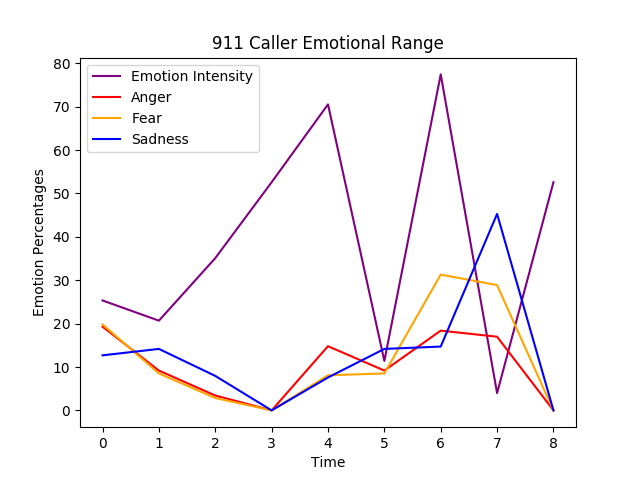
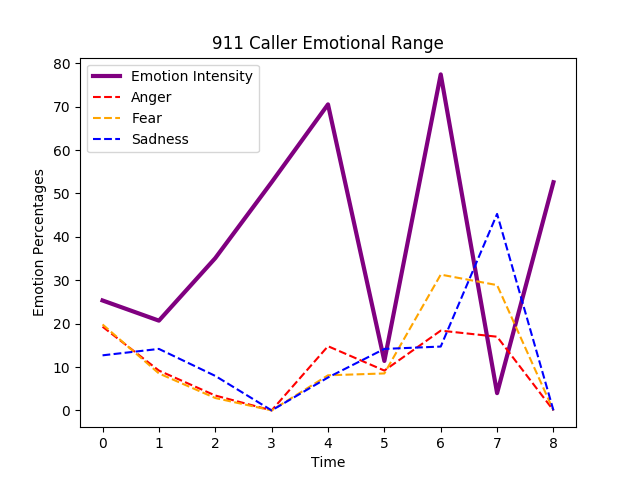
working NLU analysis, updated output format, more detailed sentiment analysis graph

diff --git a/model/tonalAnalysis.py b/model/tonalAnalysis.py
@@ -4,6 +4,8 @@ import transcriptManipulation
 import matplotlib.pyplot as plt
 import numpy as np
 from scipy.interpolate import spline
+import warnings
+warnings.filterwarnings("ignore")
 
 toneAnalyzer = ToneAnalyzerV3(
   version='2016-05-19',
@@ -12,10 +14,14 @@ toneAnalyzer = ToneAnalyzerV3(
 )
 
 with open('transcription.txt', 'r') as myfile:
-    data = myfile.read().replace('\u2019', '').replace('\u2026', '')
+    data = myfile.read()
 
 caller_text = transcriptManipulation.stripCallerText(data)
 toneJson = json.dumps(toneAnalyzer.tone(text=caller_text), indent=2)
+
+with open("EmotionJson.txt", 'w') as json_file:
+    json.dump(toneJson, json_file)
+
 
 arrayData = json.loads(toneJson)
 
@@ -23,14 +29,28 @@ emotional_range_scores = np.array([sentence.get('tone_categories')[2].get('tones
 anger_scores = np.array([sentence.get('tone_categories')[0].get('tones')[0].get('score')  for sentence in arrayData.get('sentences_tone') if sentence.get('tone_categories') != []]) * 100
 fear_scores = np.array([sentence.get('tone_categories')[0].get('tones')[2].get('score')  for sentence in arrayData.get('sentences_tone') if sentence.get('tone_categories') != []]) * 100
 sad_scores = np.array([sentence.get('tone_categories')[0].get('tones')[4].get('score')  for sentence in arrayData.get('sentences_tone') if sentence.get('tone_categories') != []]) * 100
+
+emotional_output = "Emotional Range: {" + str(np.percentile(emotional_range_scores, 25)) + ", " + str(np.percentile(emotional_range_scores, 75)) + "}\n" \
+					+ "Anger: " + str(max(anger_scores)) + "\n" \
+			  		+ "Fear: " + str(max(fear_scores)) + "\n" \
+			    	+ "Sadness: " + str(max(sad_scores))+ "\n\n"
+
+print("-------------------------")
+print("Emotional Analysis Output")
+print("-------------------------\n")
+print(emotional_output)
+
+
+print("Displaying Sentiment Analysis Arcs...\n")
+
 s = np.arange(len(emotional_range_scores))
 
 plt.gca().set_color_cycle(['purple', 'red', 'orange', 'blue'])
 
-plt.plot(s, emotional_range_scores)
-plt.plot(s, anger_scores)
-plt.plot(s, fear_scores)
-plt.plot(s, sad_scores)
+plt.plot(s, emotional_range_scores, linewidth=3)
+plt.plot(s, anger_scores, linestyle = '--')
+plt.plot(s, fear_scores, linestyle = '--')
+plt.plot(s, sad_scores, linestyle = '--')
 
 plt.legend(['Emotion Intensity', 'Anger', 'Fear', 'Sadness'], loc='upper left')
 
@@ -39,3 +59,11 @@ plt.ylabel('Emotion Percentages')
 plt.title('911 Caller Emotional Range')
 plt.savefig("emotionalrange.png")
 plt.show()
+
+with open("EmotionOutput.txt", "w") as text_file:
+    text_file.write(emotional_output)
+
+print("EmotionJson written successfully!")
+print("EmotionOutput.txt written successfully!")
+
+

diff --git a/model/NLUnderstanding.py b/model/NLUnderstanding.py
@@ -1,0 +1,45 @@
+import json
+from watson_developer_cloud import NaturalLanguageUnderstandingV1
+import watson_developer_cloud.natural_language_understanding.features.v1 \
+  as Features
+import transcriptManipulation
+
+natural_language_understanding = NaturalLanguageUnderstandingV1(
+  username="744c972f-3d84-4b71-8cf3-0eb57fedc072",
+  password="3dhfEiyveG8P",
+  version="2017-02-27")
+
+with open('transcription.txt', 'r') as myfile:
+    data = myfile.read()
+
+caller_text = transcriptManipulation.stripCallerText(data)
+
+response = natural_language_understanding.analyze(
+  text=caller_text,
+  features=[
+    Features.Entities(
+      emotion=True,
+      sentiment=True,
+      limit=5
+    ),
+    Features.Keywords(
+      emotion=True,
+      sentiment=True,
+      limit=5
+    )
+  ]
+)
+
+NLUJson = json.dumps(response, indent=2)
+
+
+print("--------------------")
+print("NLU Analysis Output")
+print("--------------------\n")
+print(NLUJson)
+
+with open("NLUJson.txt", 'w') as json_file:
+    json.dump(NLUJson, json_file)
+
+print("NLUJson written successfully!")
+

diff --git a/model/transcriptManipulation.py b/model/transcriptManipulation.py
@@ -1,9 +1,11 @@
 def stripCallerText(transcription):
+	transcription = transcription.replace('\u2019', '').replace('\u2026', '')
 	transcript_lines = transcription.split('\n')
 	caller_lines = [line.split(": ")[1] for line in transcript_lines if "Operator: " not in line]
 	return "\n".join(caller_lines)
 
 def stripOperatorText(transcription):
+	transcription = transcription.replace('\u2019', '').replace('\u2026', '')
 	transcript_lines = transcription.split('\n')
 	operator_lines = [line.split(": ")[1] for line in transcript_lines if "Operator: " in line]
 	return "\n".join(operator_lines)
